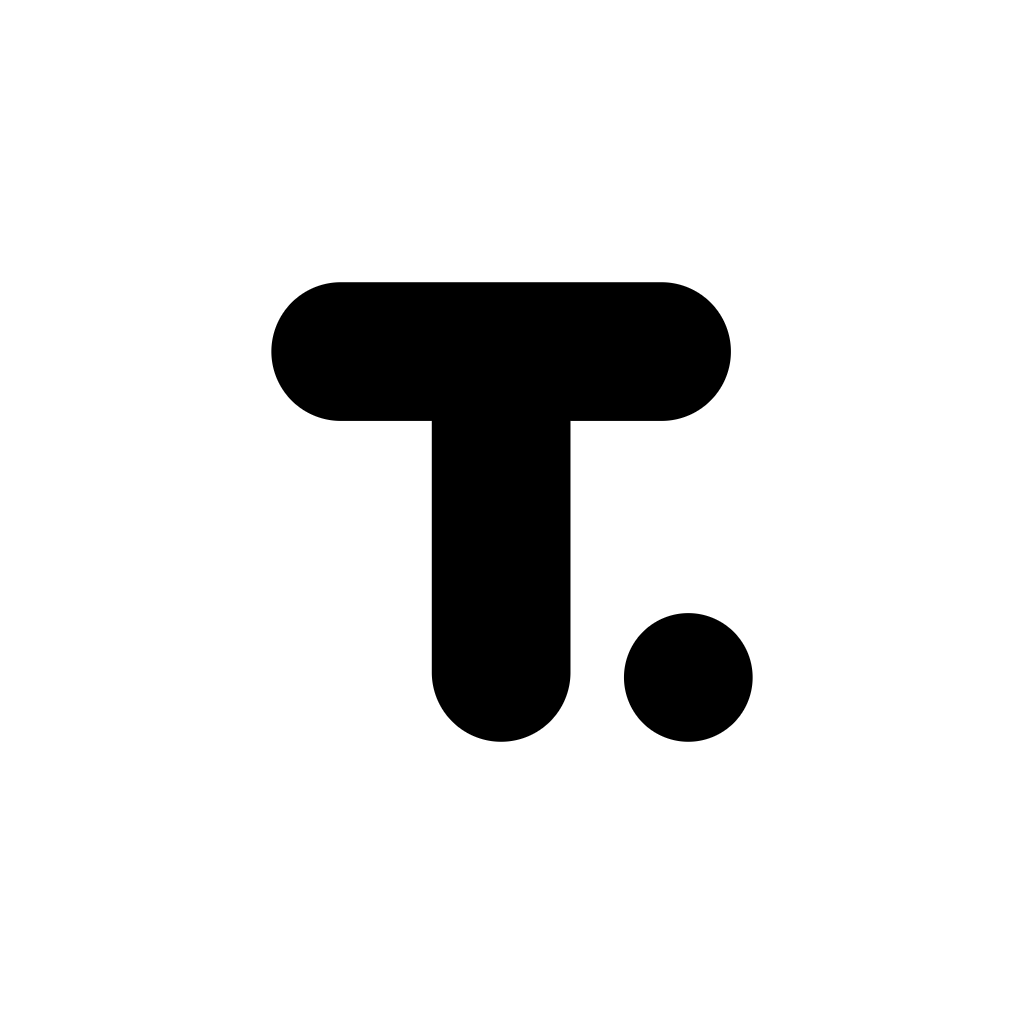
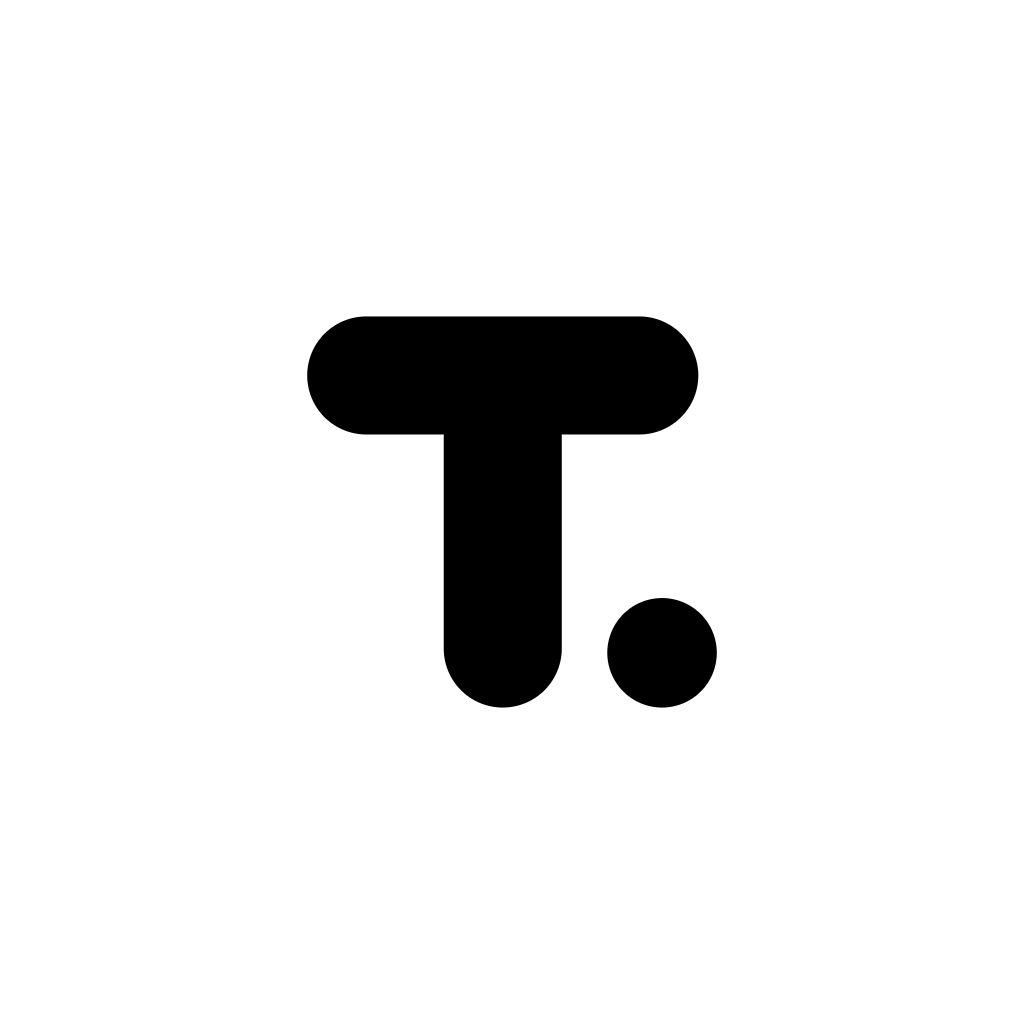
feat(brand): give the mark room to breathe on the launcher tile
The owner's read: "the t and the dot is a little too big... a bit smaller
would look more professional". Correct on both tiles, for two reasons that
turn out to be different.

iOS/web 0.62 -> 0.52. Generous margin is one of the clearest signals of a
considered icon, and the tile was carrying almost none.

Android 0.47 -> 0.40, and this one was a real miss. 0.47 was derived to fit
the 61.1% safe zone, which it does. But fitting the cap is not the same as
looking right: the launcher then MASKS to a circle only 61% of the canvas
wide, so apparent width is fill/0.611, not fill. At 0.47 the mark spanned
77% of what a user actually sees. Only the fit was ever being tested, so
nothing flagged it. 0.40 spans 66% — the weight the iOS tile now carries,
which is why the two had to move together.

The floor on going further is legibility, and it is closer than it looks.
The binding case is the iOS Settings row at 29px, where the stem-to-dot gap
is the tightest feature: 0.52 renders it at 1.68px, 0.48 at 1.55px, 0.44 at
1.42px — under the 1.5px floor and a failing build. Measured before it was
needed. Roughly one more step exists and no more.

Splash (0.78) and the notification glyph (0.72) are untouched: the splash
has no crop and no neighbours, and the glyph already sits on the floor.

Verified the adaptive foreground against a drawn mask circle at 44px rather
than trusting the arithmetic — the first render I did overlaid that circle
[…]

Changed region(s): [[0.25, 0.25, 0.7188, 0.4062], [0.3125, 0.4062, 0.6562, 0.75], [0.5938, 0.5625, 0.75, 0.75]]

diff --git a/docs/decisions/ADR-0016-brand-mark-v2.md b/docs/decisions/ADR-0016-brand-mark-v2.md
@@ -62,11 +62,29 @@ baseline dot** on white. That is the decision.
      masks would have clipped the dot and the crossbar's corner. The pack's
      README anticipates the issue but suggests a 66% fill, which is still too
      generous: the binding constraint is not width but the **diagonal reach of
-     the low-right dot**, which extends 1.272S from centre. The Android layers
-     use a **0.47** fill, computed rather than guessed.
+     the low-right dot**, which extends 1.272S from centre and caps the fill at
+     **~0.48**, computed rather than guessed. (What is actually shipped is
+     smaller still — see the sizing note below.)
    - **Its ink sat 13px right and 19px above the canvas centre.** The geometry
      is expressed about the ink's *own* bounding-box centre, so every target
      centres it optically.
+
+5. **Sizing is a separate decision from fitting** *(2026-08-21, owner: the mark
+   read as crowded)*. Shipped fills are **0.52** on the iOS/web square, down
+   from 0.62, and **0.40** on the Android layers, down from 0.47.
+   - Android is the smaller of the two because the launcher **masks to a circle
+     just 61% of the canvas wide**, so apparent width is `fill / 0.611`. At 0.47
+     the mark spanned 77% of what you actually see; at 0.40 it spans 66% —
+     matching the weight the iOS tile now carries. Fitting the safe zone and
+     looking right are different tests, and only the first was being run.
+   - **The floor on going smaller is legibility, and it is close.** The binding
+     case is the iOS Settings row at 29px, where the stem-to-dot gap is the
+     tightest feature: 0.52 renders it at 1.68px, 0.48 at 1.55px, 0.44 at
+     1.42px — under the 1.5px floor and a failing build. Roughly one more step
+     exists; it was measured before it was needed, not after.
+   - The splash (0.78) and notification glyph (0.72) are deliberately untouched:
+     the splash has no crop and no neighbours, and the glyph is already at the
+     floor.
 
 ## Consequences
 

diff --git a/docs/DESIGN_SYSTEM.md b/docs/DESIGN_SYSTEM.md
@@ -179,14 +179,25 @@ a new vector arrives, update both.
 
 - **Android’s 61.1% safe zone** (66 of 108dp) was overflowed by 55px, which
   launcher masks would have clipped. The binding constraint is not the mark’s
-  width but the DIAGONAL reach of the low-right dot, so the Android layers use a
-  0.47 fill — computed, not guessed. The pack’s README suggests 66%; that would
-  be clipped.
+  width but the DIAGONAL reach of the low-right dot, which caps the fill at
+  ~0.48 — computed, not guessed. The pack’s README suggests 66%; that would be
+  clipped.
 - **The ink sat 13px right and 19px above centre.** The geometry is expressed
   about the ink’s own bounding box, so every target centres it optically.
 
+**How big the mark sits on its tile** is a separate decision from whether it
+fits, and the two are set independently per platform: **0.52** on the iOS/web
+square, **0.40** on the Android layers (both reduced on 2026-08-21 — the mark
+read as crowded). Android is smaller for a reason that is not the safe zone:
+the launcher then MASKS to a circle only 61% of the canvas wide, so the mark’s
+apparent width is `fill / 0.611`, not `fill`. 0.40 spans 66% of that visible
+circle, which is the weight the iOS tile carries at 0.52 — the two must move
+together or the same app wears two different-looking icons.
+
 **A legibility floor of 1.5 rendered px** on bar thickness, dot diameter and the
-stem-to-dot gap is checked at each asset’s smallest render size. This is what
+stem-to-dot gap is checked at each asset’s smallest render size. It is also what
+bounds any further shrinking: at 0.52 the iOS Settings row (29px) renders the
+stem-to-dot gap at 1.68px, so there is about one step left and no more. This is what
 killed the previous mark: it looked fine at 1024px and collapsed at 48.
 
 Regenerate with `npm run assets:brand`; `npm run test:assets` asserts the safe
